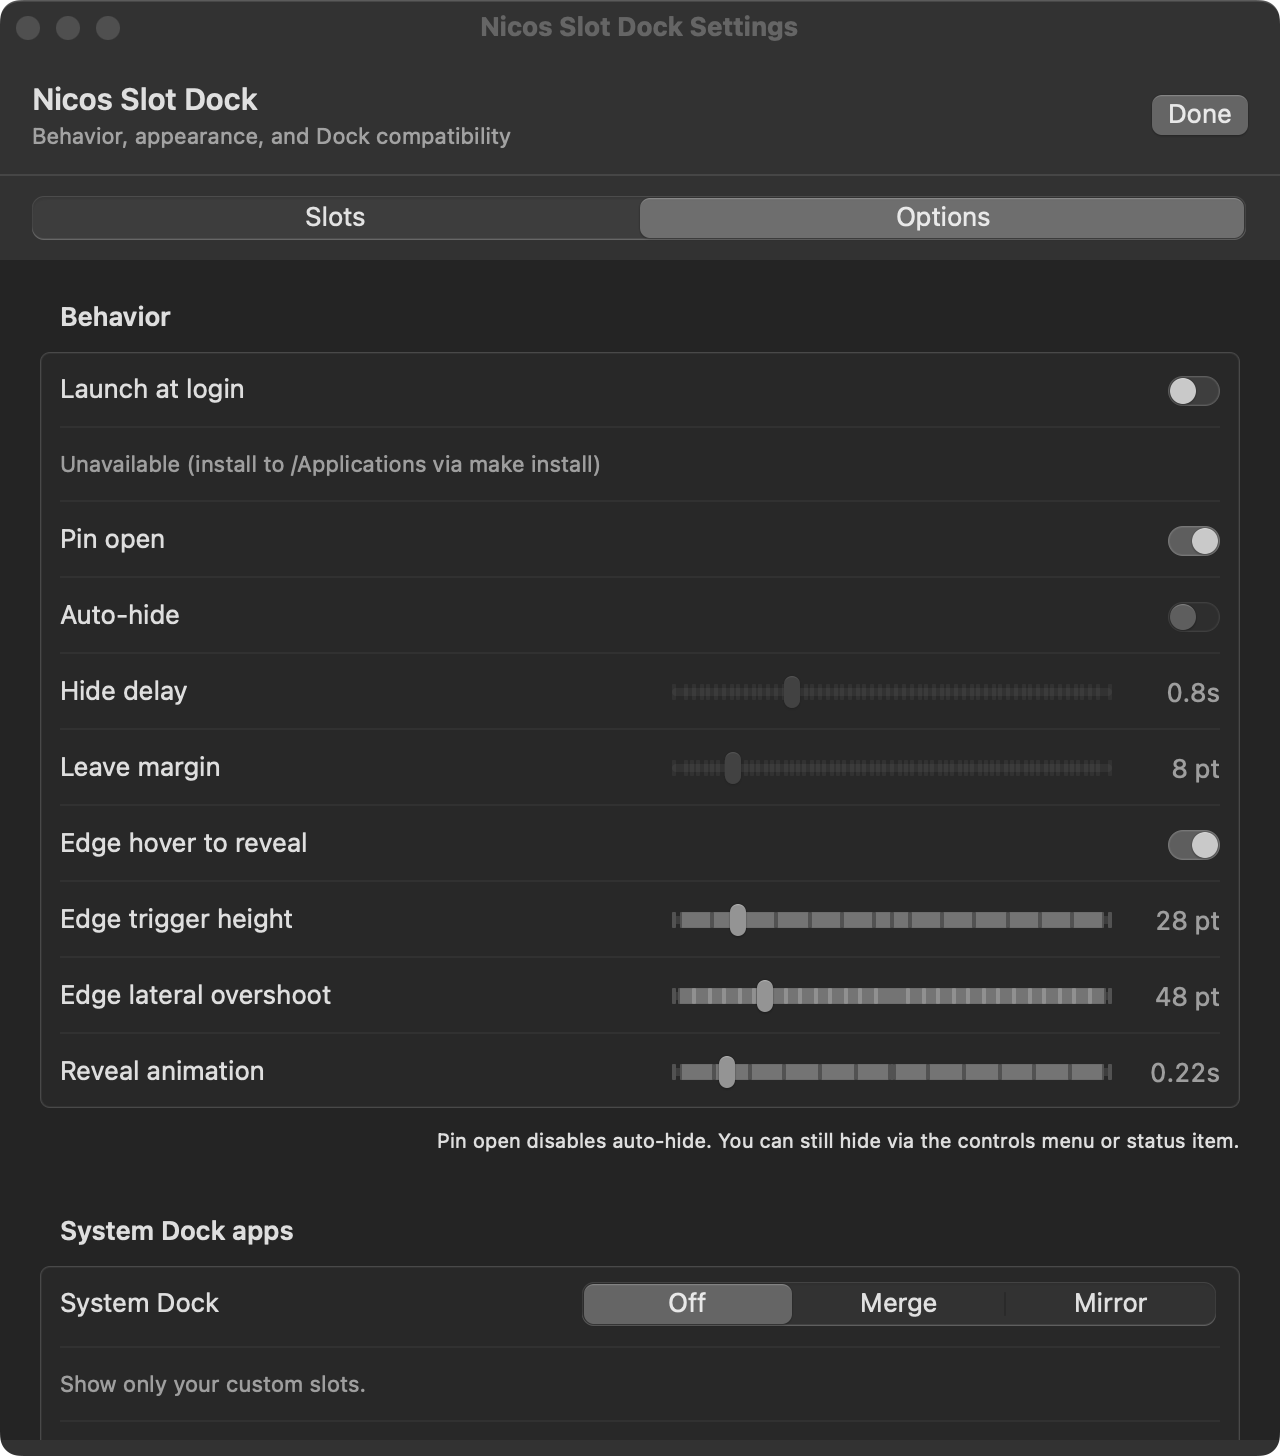
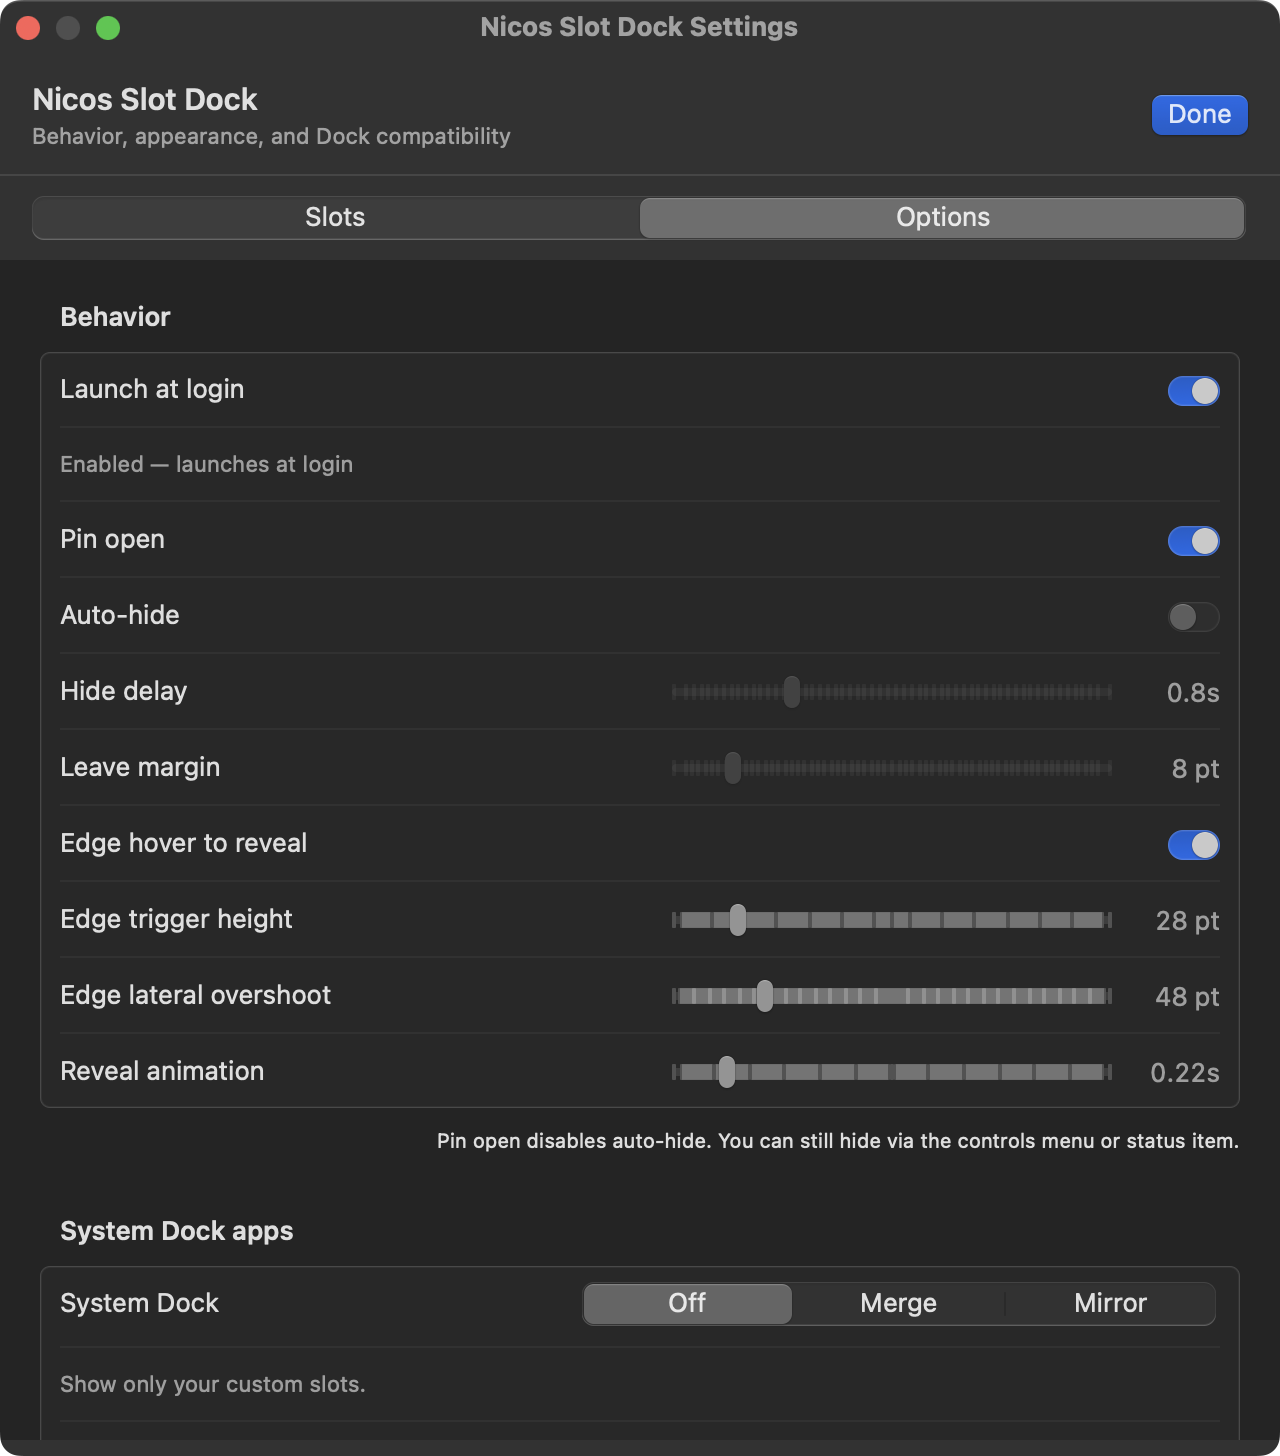
docs: close public residuals for v0.3.5

diff --git a/docs/RELEASING.md b/docs/RELEASING.md
@@ -41,6 +41,9 @@ promotion if the owner decides that the market risk warrants it.
 A public macOS download requires:
 
 1. a Developer ID Application identity in the signing keychain.
+   This machine currently has only `Apple Development`. That identity
+   is enough for local `make install`. It is not enough for
+   `make package-release`.
 2. a notarytool keychain profile containing Apple notarization credentials.
 3. visible UI, Accessibility, Automation, multi-display, second-launch, and
    natural-soak checks on the candidate version.

diff --git a/docs/PROVENANCE.md b/docs/PROVENANCE.md
@@ -22,7 +22,8 @@ changesets and records both members of each duplicate pair.
 Each reconstructed commit retains the original author date and carries
 `Source-Commit`, `Equivalent-Source-Commit` where applicable,
 `Source-App-Tree`, and `Original-Subject` trailers. Author email addresses are
-normalized to the public GitHub noreply address.
+normalized to the public GitHub noreply address. Public `Original-Subject`
+values name only Nicos Slot Dock. They do not repeat private monorepo subjects.
 
 ## Privacy filter
 

diff --git a/CHANGELOG.md b/CHANGELOG.md
@@ -4,8 +4,14 @@ This project follows [Semantic Versioning](https://semver.org/).
 
 ## Unreleased
 
+## 0.3.5 - 2026-08-17
+
 - Point README images at `raw.githubusercontent.com`. GitHub currently
   rewrites relative image paths to `/raw/main/...` URLs that return 404.
+- Recapture Settings from the installed `/Applications` app so Launch at
+  login shows a real toggle.
+- Run CI on version tags as well as `main`.
+- Keep public `Original-Subject` trailers Slot Dock-only.
 
 ## 0.3.4 - 2026-08-17
 

diff --git a/README.md b/README.md
@@ -25,9 +25,7 @@ not show a personal Dock.
 
 ![Nicos Slot Dock Settings, Options tab, with pin-open enabled and system Dock integration off](https://raw.githubusercontent.com/nstranquist/nicos-slot-dock/main/docs/assets/settings-options.png)
 
-The settings screenshot is the real Options pane from a source-built app.
-Launch at login stays unavailable until the app is installed under
-`/Applications`.
+The settings screenshot is the real Options pane from the installed app.
 
 ## Highlights
 
